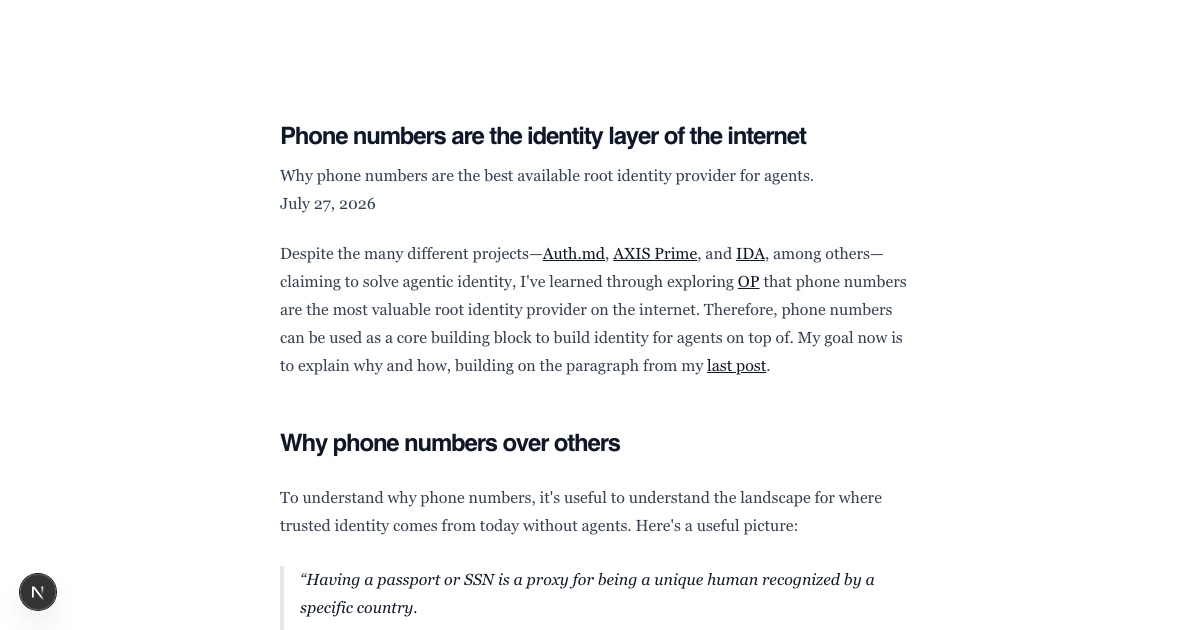
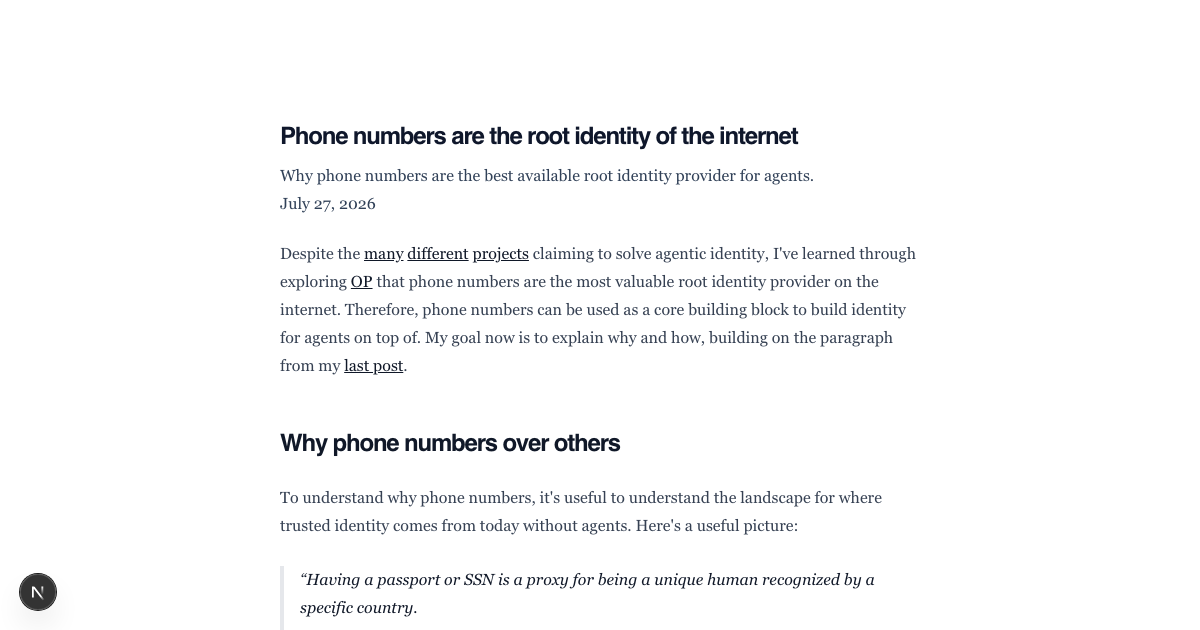
Polish site typography and projects

Changed region(s): [[0.2158, 0.3921, 0.7708, 0.5429], [0.4317, 0.181, 0.6783, 0.2413], [0.2158, 0.573, 0.6475, 0.6032]]

diff --git a/app/layout.tsx b/app/layout.tsx
@@ -1,16 +1,15 @@
 import Link from "next/link";
 import "./globals.css";
-import { Inter } from "next/font/google";
 import { ThemeProvider } from "@/components/theme-provider";
 import { Analytics } from "@/components/analytics";
 import { ModeToggle } from "@/components/mode-toggle";
-import { NextResponse } from "next/server";
-import Script from "next/script";
 import { GoogleAnalytics } from "@next/third-parties/google";
+import type { Metadata } from "next";
 
-export const metadata = {
+export const metadata: Metadata = {
+  metadataBase: new URL("https://joshmayer.net"),
   title: "Some Thoughts From Josh Mayer",
-  description: "just a simple repository of notes and others from Josh Mayer",
+  description: "Notes, essays, and projects from Josh Mayer.",
 };
 
 interface RootLayoutProps {
@@ -20,15 +19,16 @@ interface RootLayoutProps {
 export default function RootLayout({ children }: RootLayoutProps) {
   return (
     <html lang="en" suppressHydrationWarning>
-      {/* <Script src="https://tb-monitor.vercel.app/api/v1/1234-unique-id" /> */}
-      <GoogleAnalytics gaId={process.env.NEXT_PUBLIC_GOOGLE_ANALYTICS || ""} />
+      {process.env.NEXT_PUBLIC_GOOGLE_ANALYTICS && (
+        <GoogleAnalytics gaId={process.env.NEXT_PUBLIC_GOOGLE_ANALYTICS} />
+      )}
       <body
         className={`antialiased min-h-screen bg-white dark:bg-black text-slate-900 dark:text-slate-50 font-serif tracking-tighter`}
       >
         <ThemeProvider attribute="class" defaultTheme="system" enableSystem>
           <header className="">
             <div className="fixed top-0 flex justify-between w-full dark:mix-blend-difference px-4 sm:px-10 pt-8 font-bold">
-              <nav className="text-md space-x-6 underline">
+              <nav className="text-base space-x-6 underline">
                 <Link href="/">Home</Link>
                 <Link href="/posts">Notes</Link>
                 <Link href="/projects">Projects</Link>

diff --git a/app/posts/page.tsx b/app/posts/page.tsx
@@ -52,10 +52,10 @@ export default function PostsPage() {
                 +{allLearnings.length}
               </span>
             </div>
-            <p className="text-md my-1 text-slate-700 dark:text-slate-200">
+            <p className="text-base my-1 text-slate-700 dark:text-slate-200">
               Notes and essays organized by what I am learning.
             </p>
-            <p className="text-md mt-2 text-slate-700 dark:text-slate-200">
+            <p className="text-base mt-2 text-slate-700 dark:text-slate-200">
               Last updated {formatDate(note.date)}
             </p>
           </article>
@@ -65,12 +65,12 @@ export default function PostsPage() {
               <h2 className="font-bold text-2xl mb-3">{note.post.title}</h2>
             </Link>
             {note.post.description && (
-              <p className="text-md my-1 text-slate-700 dark:text-slate-200">
+              <p className="text-base my-1 text-slate-700 dark:text-slate-200">
                 {note.post.description}
               </p>
             )}
             {note.post.date && (
-              <p className="text-md mt-2 text-slate-700 dark:text-slate-200">
+              <p className="text-base mt-2 text-slate-700 dark:text-slate-200">
                 {formatDate(note.post.date)}
               </p>
             )}

diff --git a/app/projects/page.tsx b/app/projects/page.tsx
@@ -4,6 +4,12 @@ import { ProjectItem } from "@/components/project-item";
 export const metadata: Metadata = {
   title: "All Projects",
   description: "A running log of things I've built.",
+  alternates: { canonical: "/projects" },
+  openGraph: {
+    title: "All Projects",
+    description: "A running log of things I've built.",
+    url: "/projects",
+  },
 };
 
 const projectsByYear = [
@@ -191,15 +197,10 @@ const projectsByYear = [
 export default function ProjectsPage() {
   return (
     <article className="py-6 prose dark:prose-invert">
-      <h3>All Projects</h3>
-      <p className="text-md">A running log of things I&apos;ve built.</p>
       <div className="not-prose grid gap-10">
         {projectsByYear.map(({ year, projects }) => (
           <section key={year} className="grid gap-4">
-            <div className="flex items-center gap-3">
-              <h2 className="my-0 text-sm font-bold tabular-nums">{year}</h2>
-              <div className="h-px flex-1 bg-slate-200 dark:bg-slate-800" />
-            </div>
+            <h2 className="my-0 text-xl font-bold tabular-nums">{year}</h2>
             <ul className="grid gap-5">
               {projects.map((project) => (
                 <ProjectItem key={project.title} {...project} />

diff --git a/app/posts/[...slug]/page.tsx b/app/posts/[...slug]/page.tsx
@@ -38,9 +38,13 @@ export async function generateMetadata({
   return {
     title: post.title,
     description: post.description,
+    alternates: { canonical: post.slug },
     openGraph: {
       title: post.title,
       description: post.description,
+      url: post.slug,
+      type: "article",
+      publishedTime: post.date,
       images: [
         {
           url: ogImageUrl,
@@ -76,14 +80,14 @@ export default async function PostPage({ params }: PostProps) {
   return (
     <article className="mt-6 mb-16">
       <div className="flex flex-col mb-6">
-        <h2 className="font-bold text-2xl mb-3 underline">{post.title}</h2>
+        <h1 className="font-bold text-2xl mb-3 underline">{post.title}</h1>
         {post.description && (
-          <p className="text-md mt-0 mb-1 text-slate-700 dark:text-slate-200">
+          <p className="text-base mt-0 mb-1 text-slate-700 dark:text-slate-200">
             {post.description}
           </p>
         )}
         {post.date && (
-          <p className="text-md my-0 text-slate-700 dark:text-slate-200">
+          <p className="text-base my-0 text-slate-700 dark:text-slate-200">
             {formatDate(post.date)}
           </p>
         )}

diff --git a/components/project-item.tsx b/components/project-item.tsx
@@ -1,5 +1,4 @@
 import Link from "next/link";
-import { ExternalLink } from "lucide-react";
 
 interface ProjectItemProps {
   title: string;
@@ -21,22 +20,23 @@ export function ProjectItem({
   return (
     <li className="grid gap-1">
       <div className="flex flex-wrap items-baseline gap-x-2 gap-y-1">
-        <h3 className="my-0 text-base font-bold">
+        <h3 className="my-0 text-lg font-bold">
           {href ? <Link href={href}>{title}</Link> : title}
         </h3>
         {href ? (
           <Link
             href={href}
-            className="inline-flex items-baseline gap-1 text-sm tabular-nums underline decoration-1 underline-offset-2"
+            className="text-sm tabular-nums underline decoration-1 underline-offset-2"
           >
-            <span>{linkLabel}</span>
-            <ExternalLink aria-hidden="true" className="h-3 w-3" />
+            {linkLabel}
           </Link>
         ) : (
           meta && <span className="text-sm opacity-70">{meta}</span>
         )}
       </div>
-      <p className="my-0">{description}</p>
+      <p className="my-0 text-base text-slate-700 dark:text-slate-200">
+        {description}
+      </p>
     </li>
   );
 }

diff --git a/app/[...slug]/page.tsx b/app/[...slug]/page.tsx
@@ -34,6 +34,12 @@ export async function generateMetadata({
   return {
     title: page.title,
     description: page.description,
+    alternates: { canonical: `/${page.slugAsParams}` },
+    openGraph: {
+      title: page.title,
+      description: page.description,
+      url: `/${page.slugAsParams}`,
+    },
   };
 }
 
@@ -52,11 +58,18 @@ export default async function PagePage({ params }: PageProps) {
   }
 
   return (
-    <article className="py-6 prose dark:prose-invert">
-      <h3>{page.title}</h3>
-      {page.description && <p className="text-md">{page.description}</p>}
-      <hr />
-      <Mdx code={page.body.code} />
+    <article className="py-6">
+      <header className="flex flex-col mb-6">
+        <h1 className="font-bold text-2xl mb-3 underline">{page.title}</h1>
+        {page.description && (
+          <p className="text-base mt-0 mb-1 text-slate-700 dark:text-slate-200">
+            {page.description}
+          </p>
+        )}
+      </header>
+      <div className="prose dark:prose-invert">
+        <Mdx code={page.body.code} />
+      </div>
     </article>
   );
 }

diff --git a/app/learning/page.tsx b/app/learning/page.tsx
@@ -32,11 +32,11 @@ export default function LearningPage() {
     <div className="mt-6 mb-16">
       <header className="mb-14">
         <h1 className="font-bold text-2xl mb-3 underline">Learning</h1>
-        <p className="text-md my-1 text-slate-700 dark:text-slate-200">
+        <p className="text-base my-1 text-slate-700 dark:text-slate-200">
           Notes and essays organized by what I am learning.
         </p>
         {latestLearningDate && (
-          <p className="text-md mt-2 text-slate-700 dark:text-slate-200">
+          <p className="text-base mt-2 text-slate-700 dark:text-slate-200">
             Last updated {formatDate(latestLearningDate)}
           </p>
         )}

diff --git a/app/learning/[...slug]/page.tsx b/app/learning/[...slug]/page.tsx
@@ -66,11 +66,11 @@ export default async function LearningEssayPage({
       <header className="flex flex-col mt-5 mb-6">
         <h1 className="font-bold text-2xl mb-3 underline">{essay.title}</h1>
         {essay.description && (
-          <p className="text-md mt-0 mb-1 text-slate-700 dark:text-slate-200">
+          <p className="text-base mt-0 mb-1 text-slate-700 dark:text-slate-200">
             {essay.description}
           </p>
         )}
-        <p className="text-md my-0 text-slate-700 dark:text-slate-200">
+        <p className="text-base my-0 text-slate-700 dark:text-slate-200">
           {formatDate(essay.date)}
         </p>
       </header>
